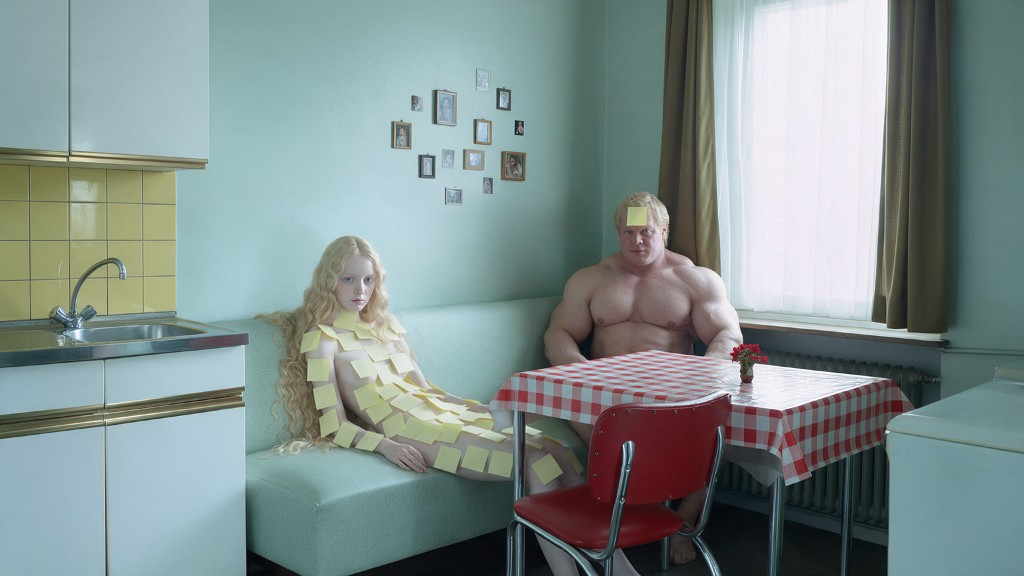
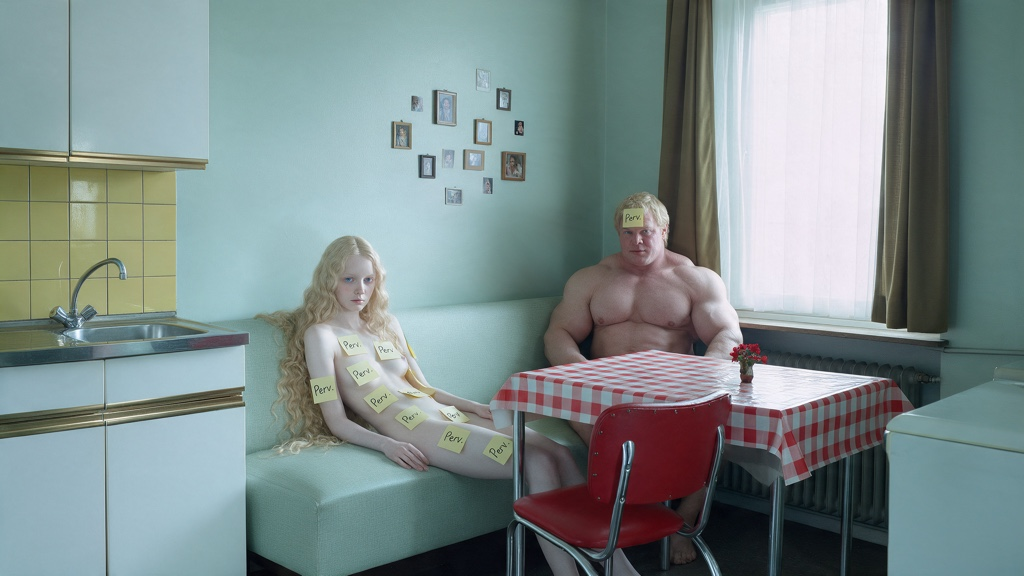
Swap hero images, use correct Perv. post-it variant, restyle name and lighten veil

Changed region(s): [[0.2812, 0.5312, 0.5625, 0.8438], [0.5938, 0.3438, 0.6562, 0.4062]]

diff --git a/index.html b/index.html
@@ -6,7 +6,7 @@
 <title>Laurent Bourdoiseau</title>
 <link rel="preconnect" href="https://fonts.googleapis.com">
 <link rel="preconnect" href="https://fonts.gstatic.com" crossorigin>
-<link href="https://fonts.googleapis.com/css2?family=Barlow:wght@600&family=Barlow+Condensed:wght@300;800;900&family=Fraunces:ital,opsz,wght@0,9..144,300;1,9..144,300&display=swap" rel="stylesheet">
+<link href="https://fonts.googleapis.com/css2?family=Anton&family=Barlow:wght@600&family=Barlow+Condensed:wght@300;800;900&family=Fraunces:ital,opsz,wght@0,9..144,300;1,9..144,300&display=swap" rel="stylesheet">
 <style>
   :root{ --ink:#ffffff; --split:50%; }
   *{ margin:0; padding:0; box-sizing:border-box; }
@@ -59,7 +59,7 @@
   .veil{
     position:fixed;
     inset:0;
-    background:linear-gradient(to bottom, rgba(0,0,0,0.15) 0%, rgba(0,0,0,0.05) 40%, rgba(0,0,0,0.55) 100%);
+    background:linear-gradient(to bottom, rgba(0,0,0,0.08) 0%, rgba(0,0,0,0.02) 40%, rgba(0,0,0,0.35) 100%);
     z-index:1;
     pointer-events:none;
   }
@@ -70,12 +70,13 @@
     left:2.2rem;
     z-index:2;
     text-align:left;
-    font-family:'Barlow Condensed', sans-serif;
-    font-weight:900;
+    font-family:'Anton', sans-serif;
+    font-weight:400;
     font-size:clamp(2.6rem, 5.85vw, 6.5rem);
     line-height:0.88;
-    letter-spacing:-0.02em;
+    letter-spacing:-0.01em;
     text-transform:uppercase;
+    text-shadow:0 2px 14px rgba(0,0,0,0.5);
     opacity:1;
     pointer-events:none;
   }
@@ -114,7 +115,7 @@
 
   @media (max-width:899px){
     .veil{
-      background:linear-gradient(to bottom, rgba(0,0,0,0.42) 0%, rgba(0,0,0,0.12) 30%, rgba(0,0,0,0.55) 100%);
+      background:linear-gradient(to bottom, rgba(0,0,0,0.28) 0%, rgba(0,0,0,0.08) 30%, rgba(0,0,0,0.38) 100%);
     }
   }
 
@@ -134,8 +135,8 @@
 </head>
 <body>
 
-  <img class="bg-half bg-left" src="hero-left.jpg" alt="">
-  <img class="bg-half bg-right" src="hero-right.jpg" alt="">
+  <img class="bg-half bg-left" src="hero-right.jpg" alt="">
+  <img class="bg-half bg-right" src="hero-left.jpg" alt="">
   <div class="shutter-line"></div>
   <div class="veil"></div>
 
